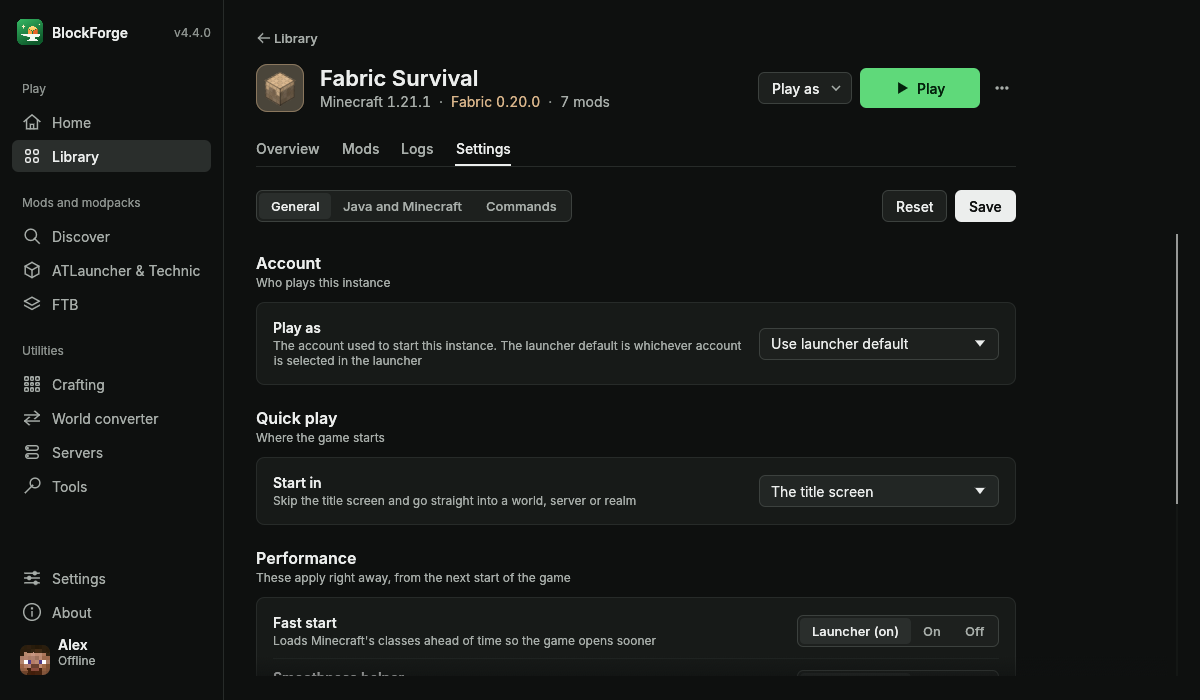
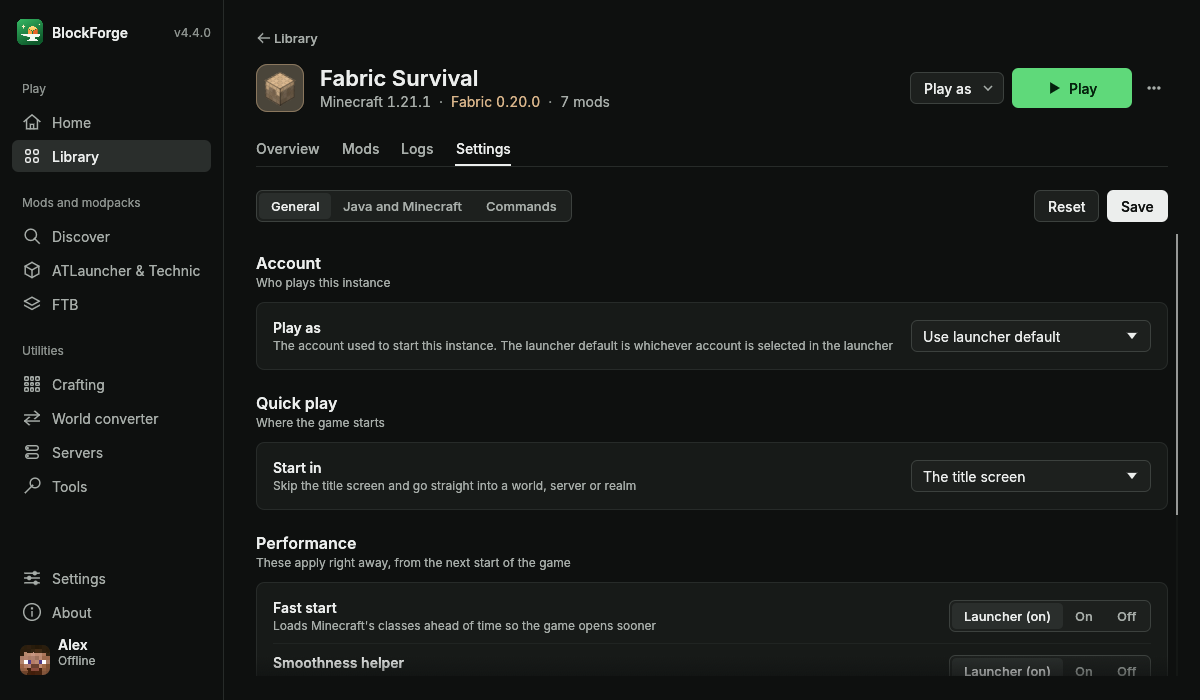
Instance page: one column on every tab; refreshed screenshots

diff --git a/src/gui/library.rs b/src/gui/library.rs
@@ -400,15 +400,11 @@ impl App {
             return;
         };
         let mut action = None;
-        // one right edge: the back link, the title row and the tab bar end where what is under them ends. The
-        // overview and the settings are forms and keep to the width of a form (their scroll bar stays at the window's
-        // edge, in a strip of its own); the mods get a little more; the log gets all of the room.
+        // one right edge, and the same one on every tab: the back link, the title row, the tab bar and what is under
+        // them all end at the same x, so Play stays where it is when the tab changes. In a wider window the page
+        // keeps to this column instead of stretching; the scroll bar has its own strip at the window's edge.
         let room = ui.available_width();
-        let column = match self.tab {
-            InstTab::Overview | InstTab::Settings => (room - ui.spacing().scroll.allocated_width()).min(FORM_COLUMN),
-            InstTab::Mods => room.min(MODS_COLUMN),
-            InstTab::Logs => room,
-        };
+        let column = (room - ui.spacing().scroll.allocated_width()).min(INSTANCE_COLUMN);
         ui.scope(|ui| {
             ui.set_max_width(column);
             self.instance_header(ui, &inst, &mut action);
@@ -422,7 +418,13 @@ impl App {
                 })
                 .inner
             }
-            InstTab::Logs => self.tab_logs(ui, &inst),
+            InstTab::Logs => {
+                ui.scope(|ui| {
+                    ui.set_max_width(column);
+                    self.tab_logs(ui, &inst);
+                })
+                .inner
+            }
             InstTab::Settings => self.tab_settings(ui, &inst),
         }
         if let Some(a) = action {
@@ -709,11 +711,12 @@ impl App {
     }
 }
 
-/// The widest the overview and the settings of an instance get, with the header over them: the width of a form.
-pub(super) const FORM_COLUMN: f32 = 760.0;
+/// The width of an instance's page on every tab (the header and what is under it end at the same edge, so Play stays
+/// where it is when the tab changes).
+const INSTANCE_COLUMN: f32 = 1040.0;
 
-/// The widest the mods list gets, with the header over it: a switch stays within reach of its mod's name.
-const MODS_COLUMN: f32 = 1040.0;
+/// The widest a form on an instance's page gets.
+pub(super) const FORM_COLUMN: f32 = INSTANCE_COLUMN;
 
 /// How many shortenings [`instance_meta`] has.
 const META_LEVELS: usize = 4;
